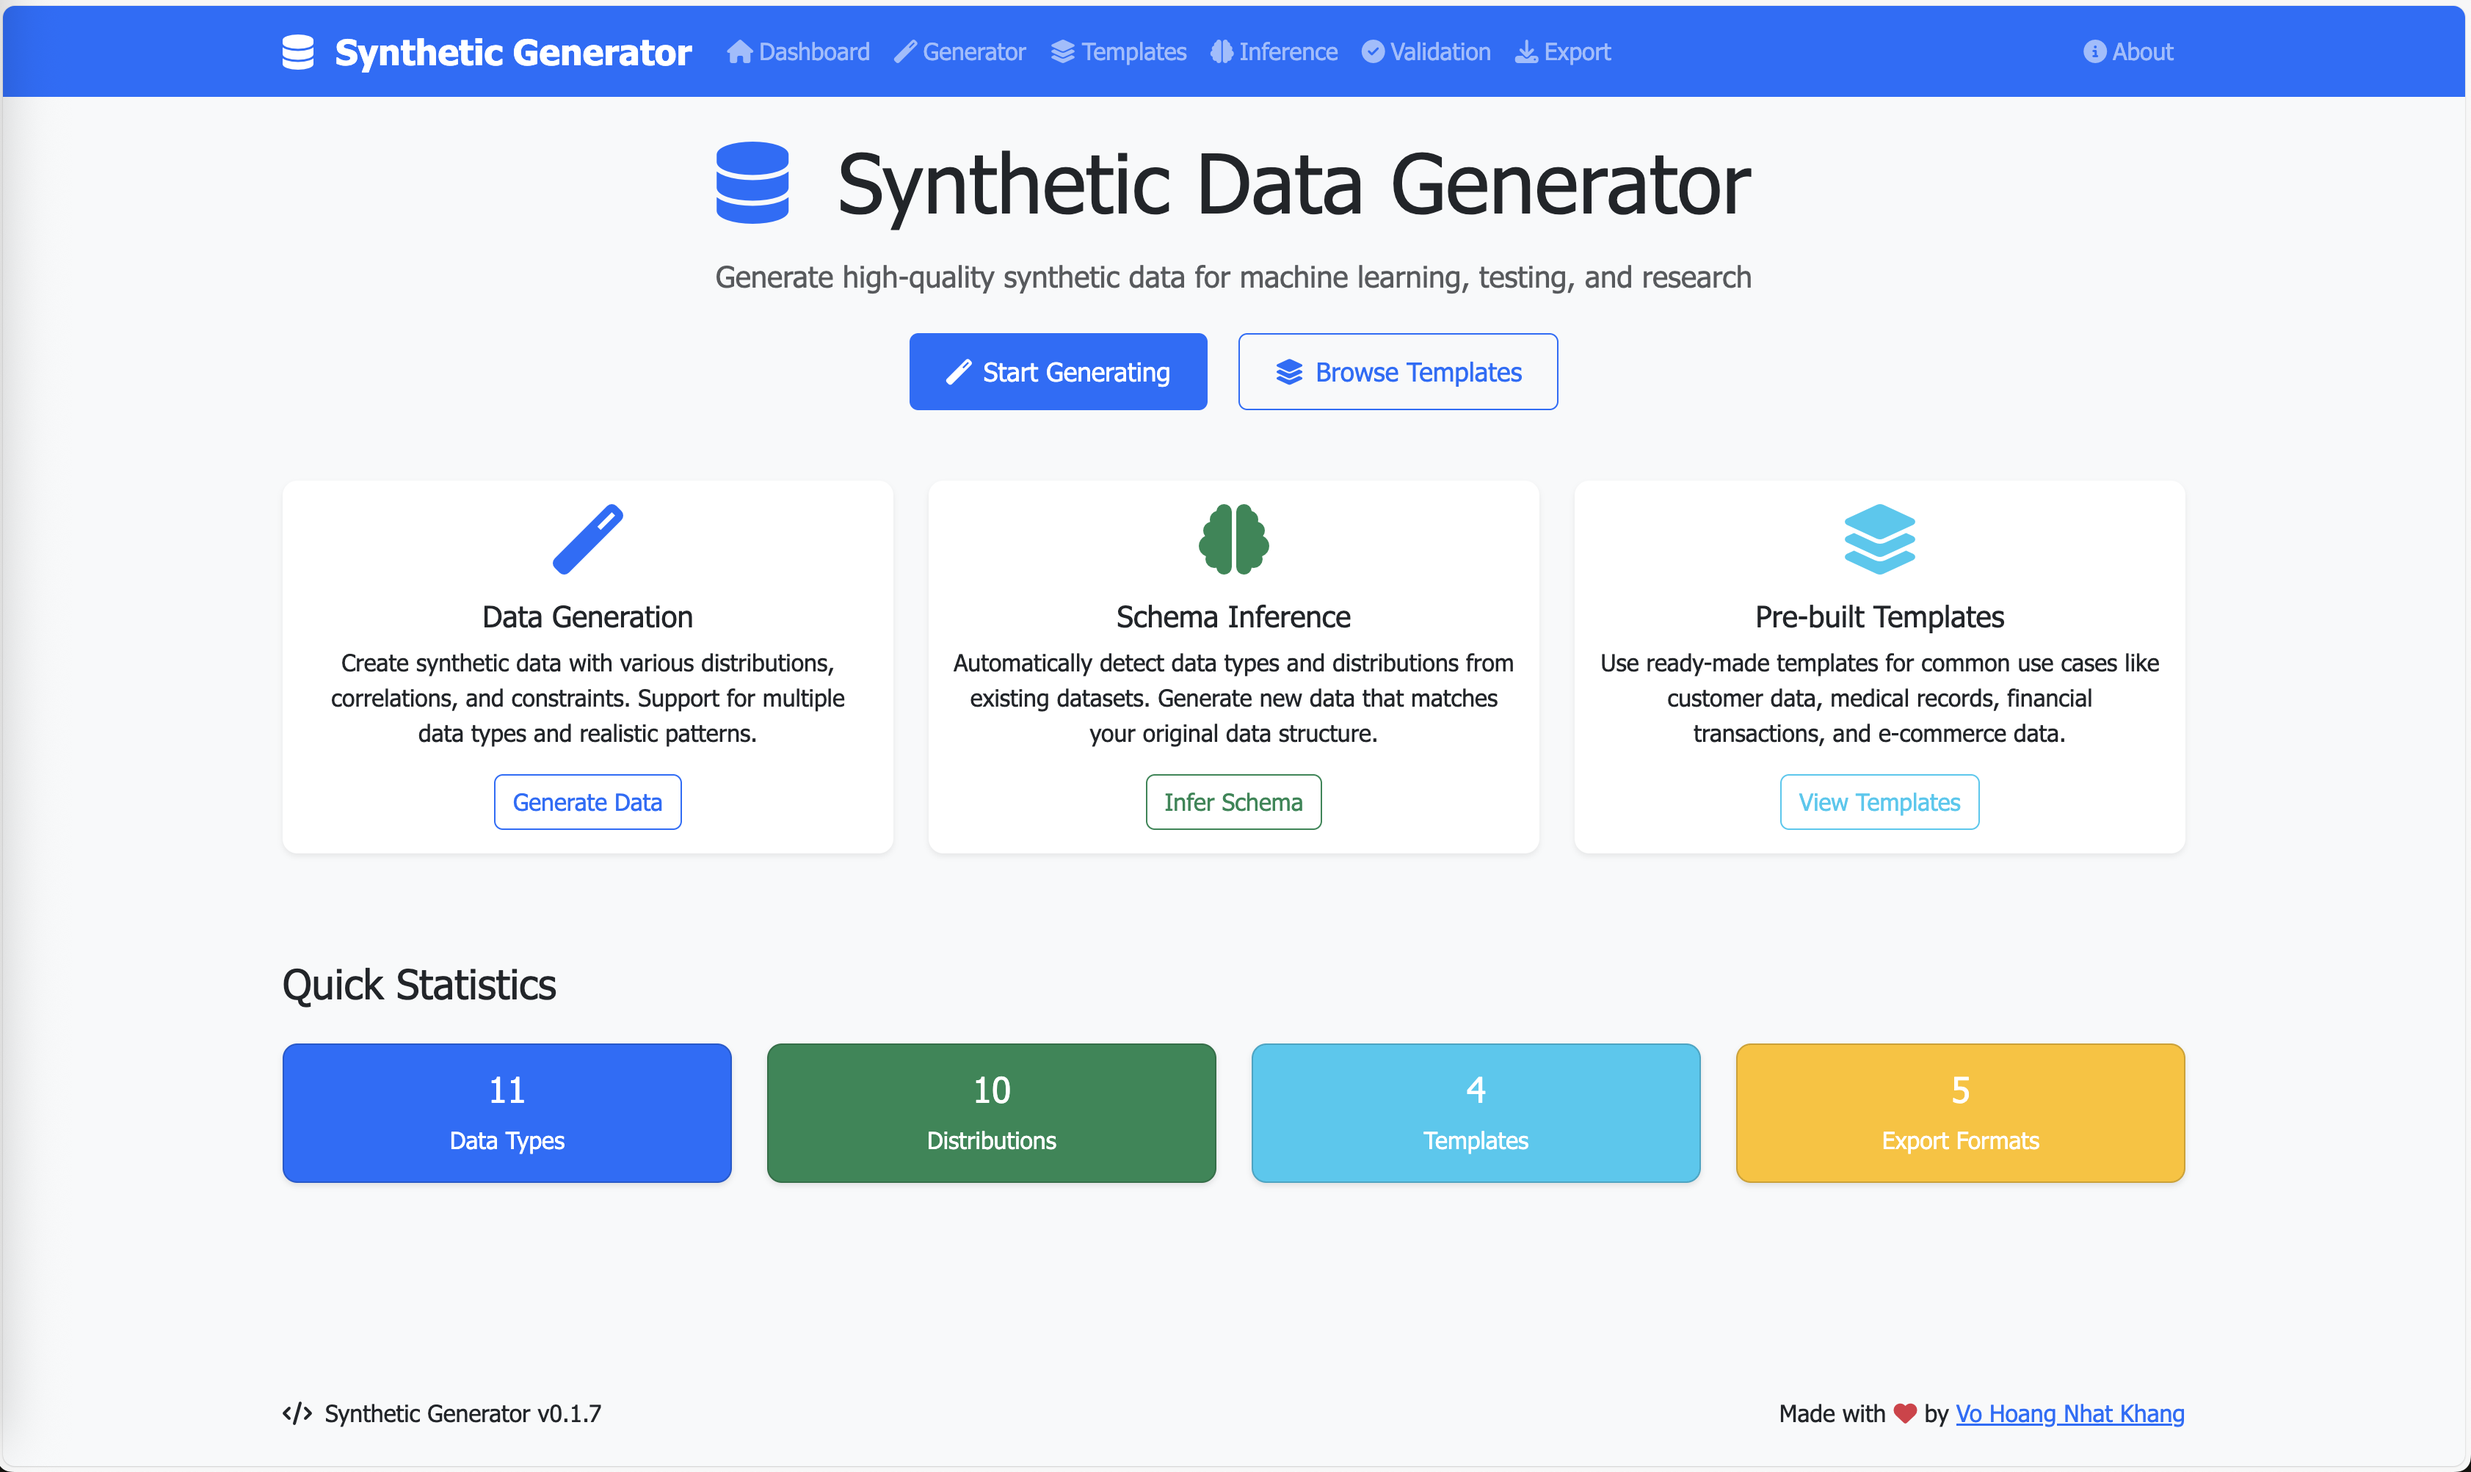
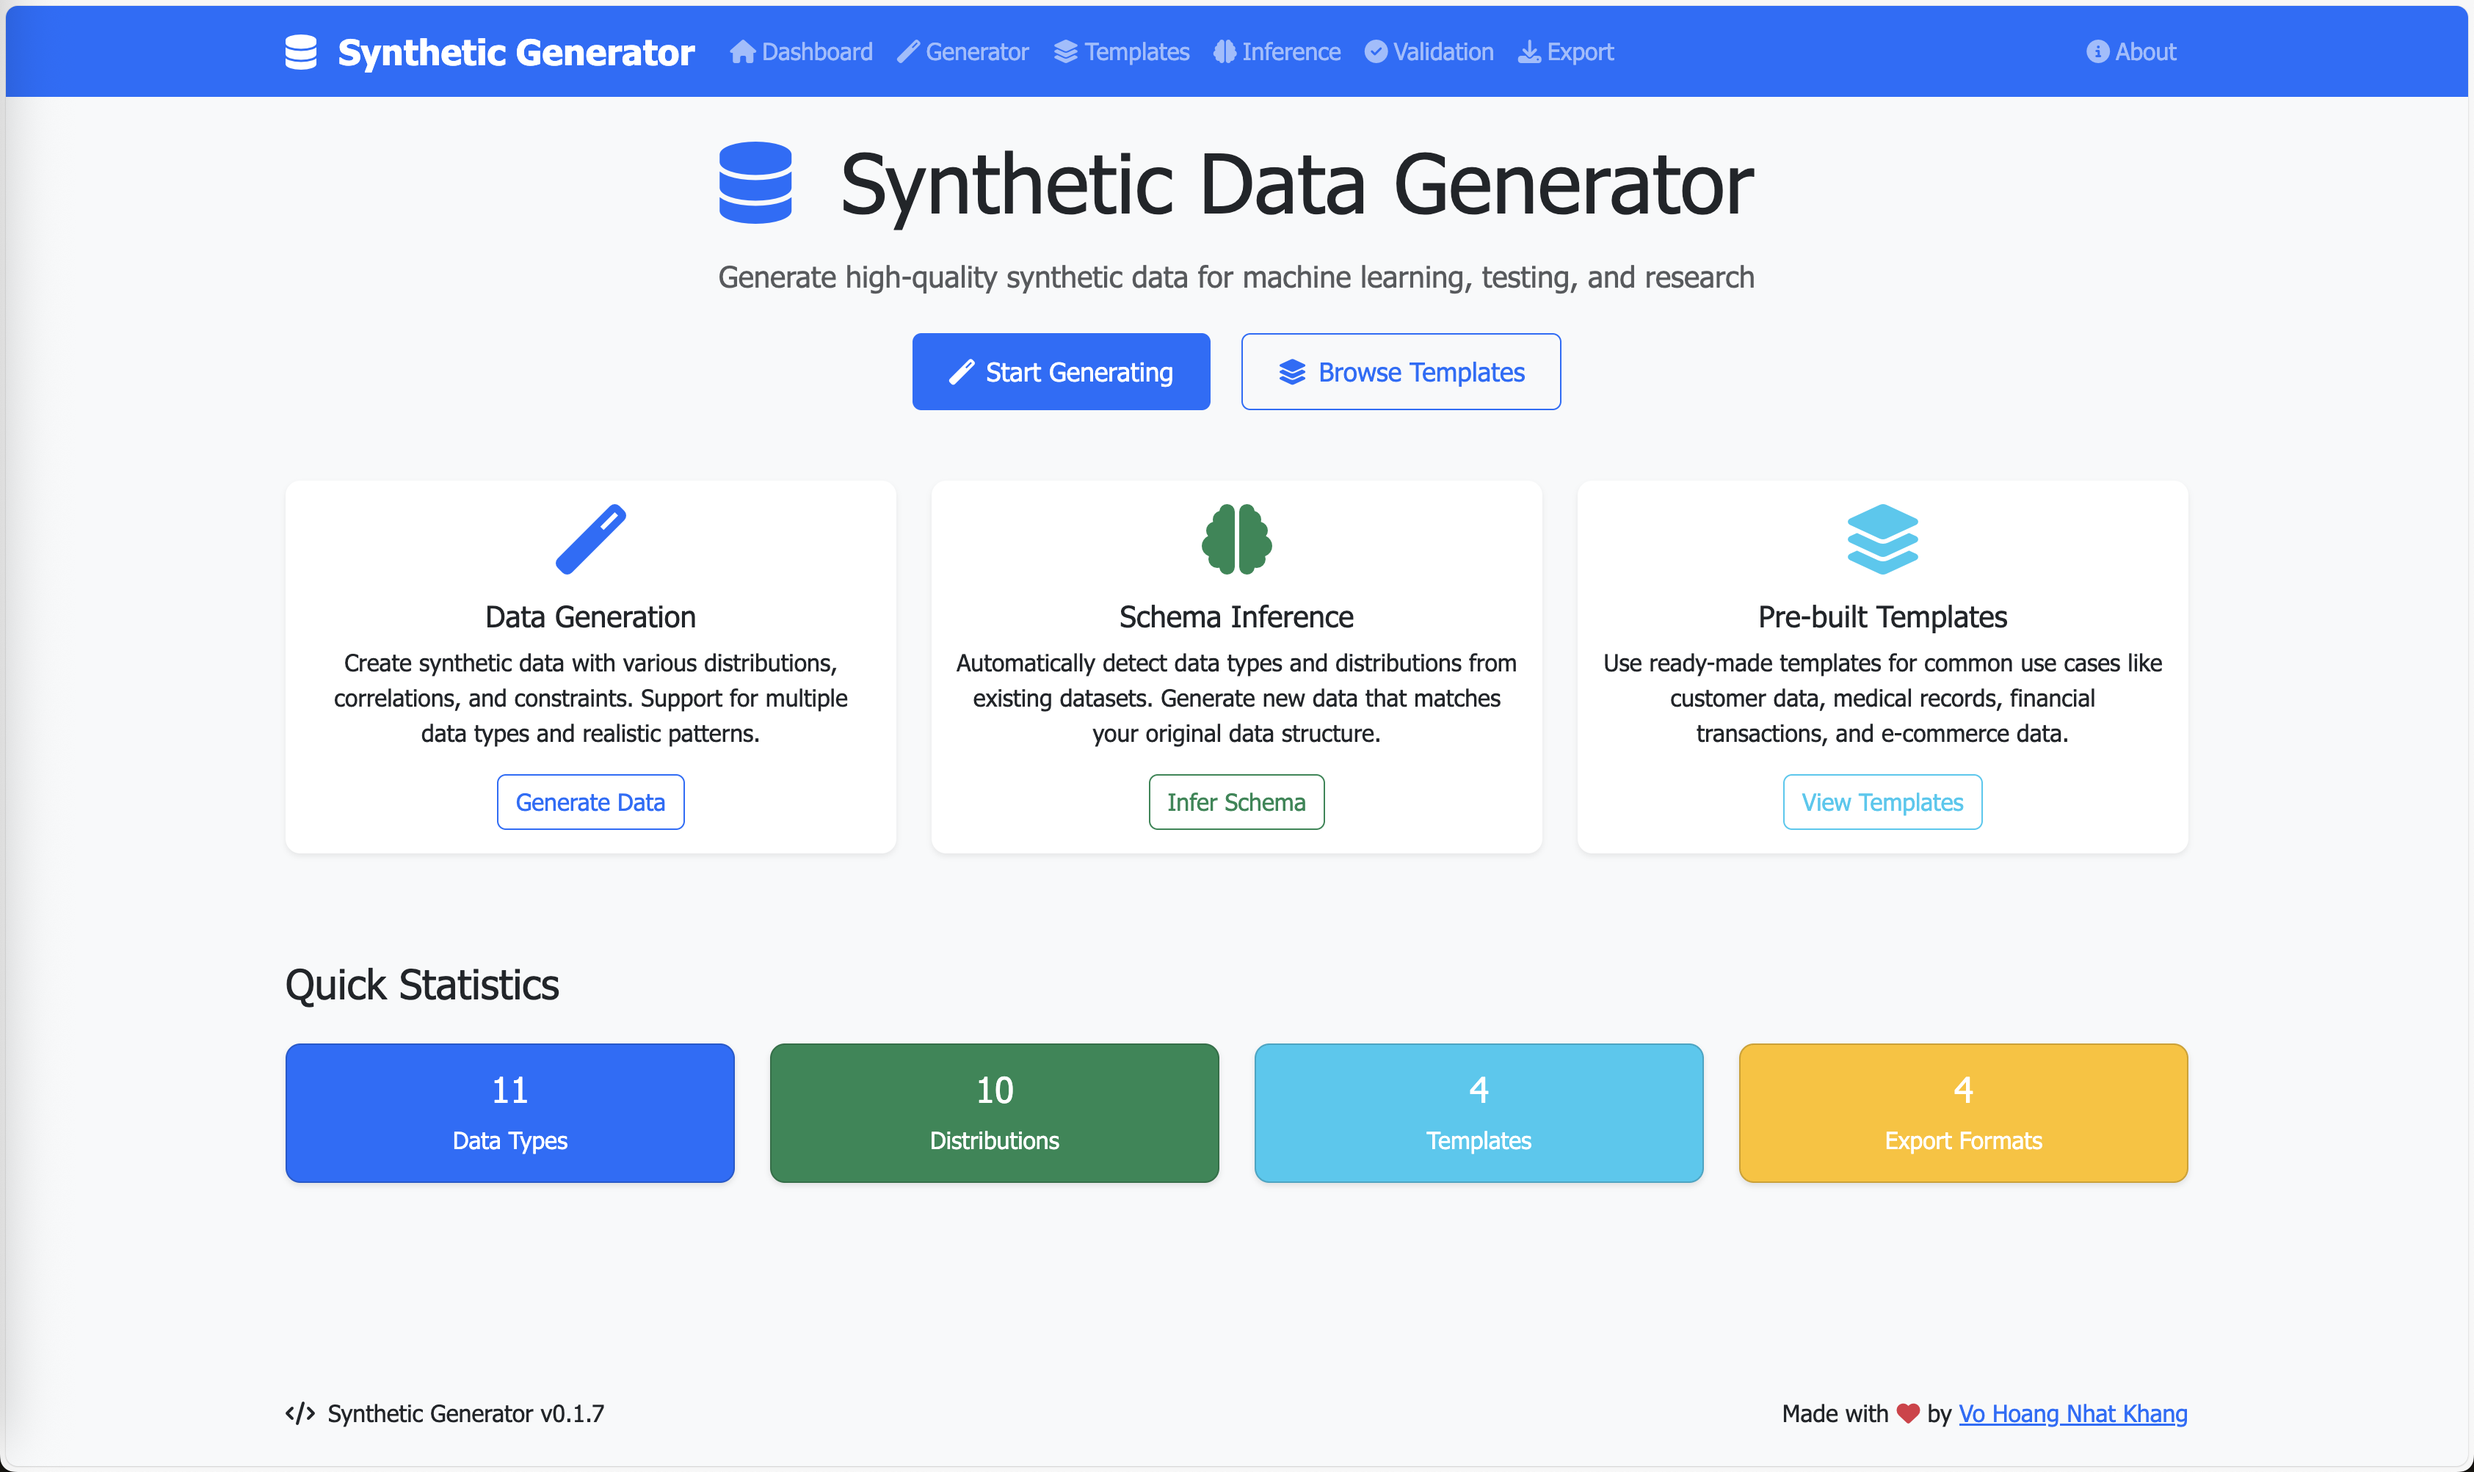
update UI

diff --git a/src/synthetic_generator/web/templates/index.html b/src/synthetic_generator/web/templates/index.html
@@ -116,75 +116,11 @@
         <div class="col-md-3 mb-3">
             <div class="card bg-warning text-white">
                 <div class="card-body text-center">
-                    <h4 class="card-title">5</h4>
+                    <h4 class="card-title">4</h4>
                     <p class="card-text">Export Formats</p>
                 </div>
             </div>
         </div>
     </div>
-
-    <!-- Recent Activity -->
-    <!-- <div class="row">
-        <div class="col-md-6 mb-4">
-            <div class="card border-0 shadow-sm">
-                <div class="card-header bg-light">
-                    <h5 class="mb-0">
-                        <i class="fas fa-clock me-2"></i>Recent Activity
-                    </h5>
-                </div>
-                <div class="card-body">
-                    <div class="list-group list-group-flush">
-                        <div class="list-group-item d-flex justify-content-between align-items-center">
-                            <div>
-                                <i class="fas fa-magic text-primary me-2"></i>
-                                Generated customer data
-                            </div>
-                            <small class="text-muted">2 minutes ago</small>
-                        </div>
-                        <div class="list-group-item d-flex justify-content-between align-items-center">
-                            <div>
-                                <i class="fas fa-brain text-success me-2"></i>
-                                Inferred schema from CSV
-                            </div>
-                            <small class="text-muted">15 minutes ago</small>
-                        </div>
-                        <div class="list-group-item d-flex justify-content-between align-items-center">
-                            <div>
-                                <i class="fas fa-download text-info me-2"></i>
-                                Exported medical data
-                            </div>
-                            <small class="text-muted">1 hour ago</small>
-                        </div>
-                    </div>
-                </div>
-            </div>
-        </div>
-        
-        <div class="col-md-6 mb-4">
-            <div class="card border-0 shadow-sm">
-                <div class="card-header bg-light">
-                    <h5 class="mb-0">
-                        <i class="fas fa-chart-bar me-2"></i>System Status
-                    </h5>
-                </div>
-                <div class="card-body">
-                    <div class="row text-center">
-                        <div class="col-6">
-                            <div class="mb-3">
-                                <h4 class="text-success">Online</h4>
-                                <small class="text-muted">API Status</small>
-                            </div>
-                        </div>
-                        <div class="col-6">
-                            <div class="mb-3">
-                                <h4 class="text-info">v0.1.7</h4>
-                                <small class="text-muted">Version</small>
-                            </div>
-                        </div>
-                    </div>
-                </div>
-            </div>
-        </div>
-    </div> -->
 </div>
 {% endblock %}
